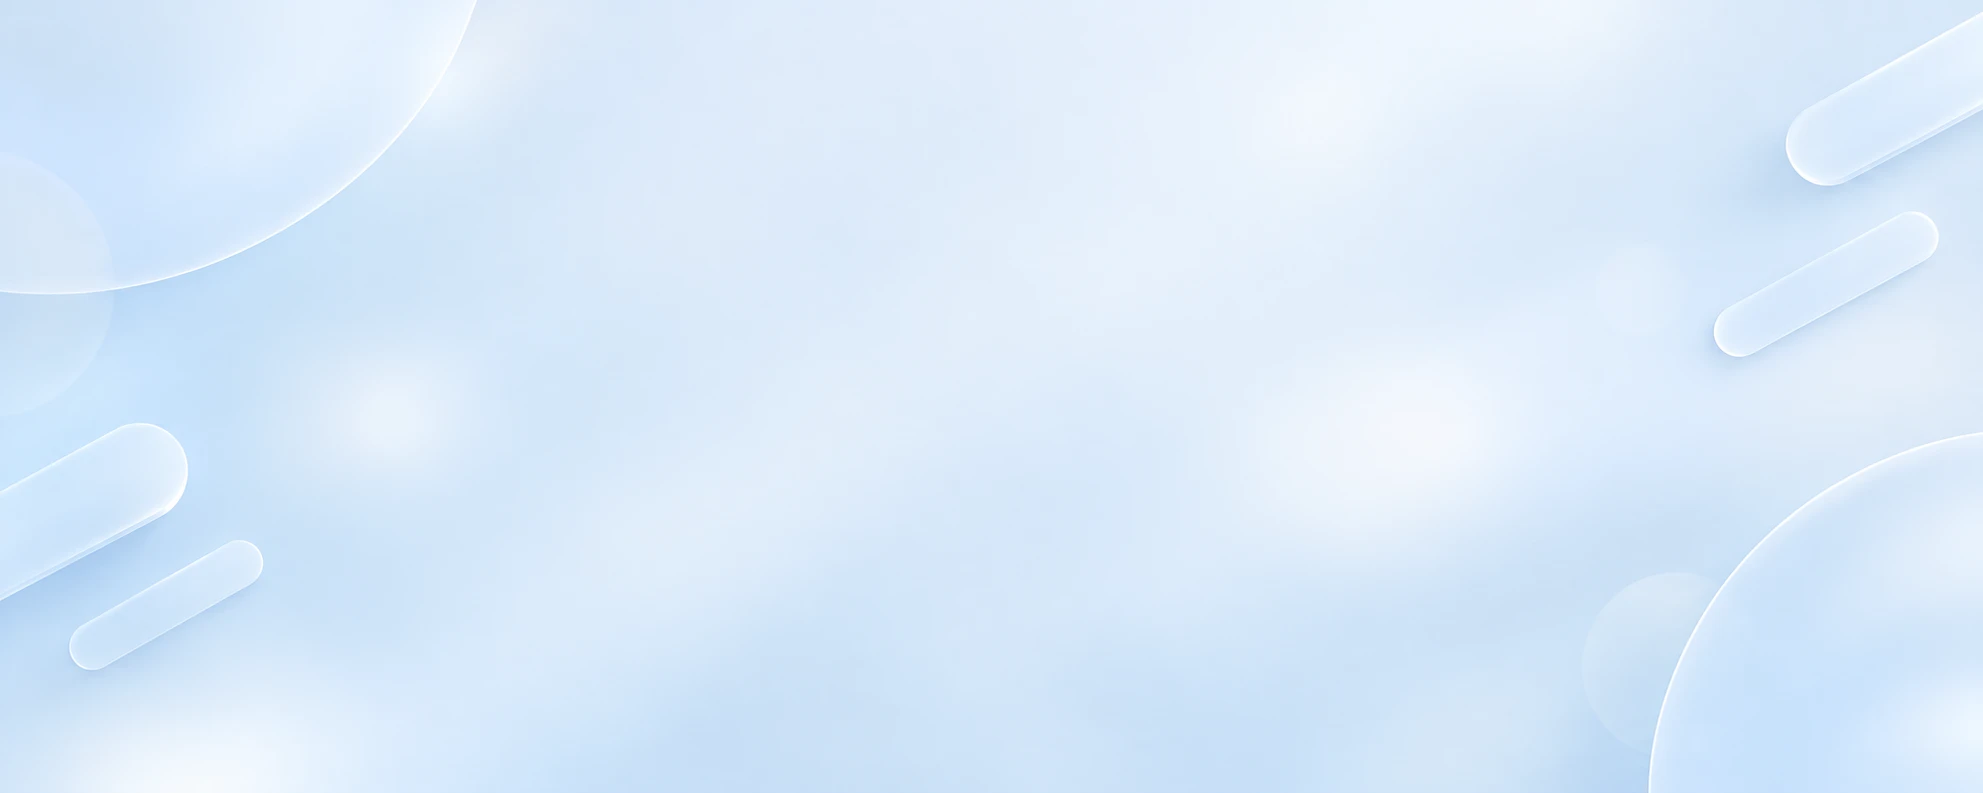
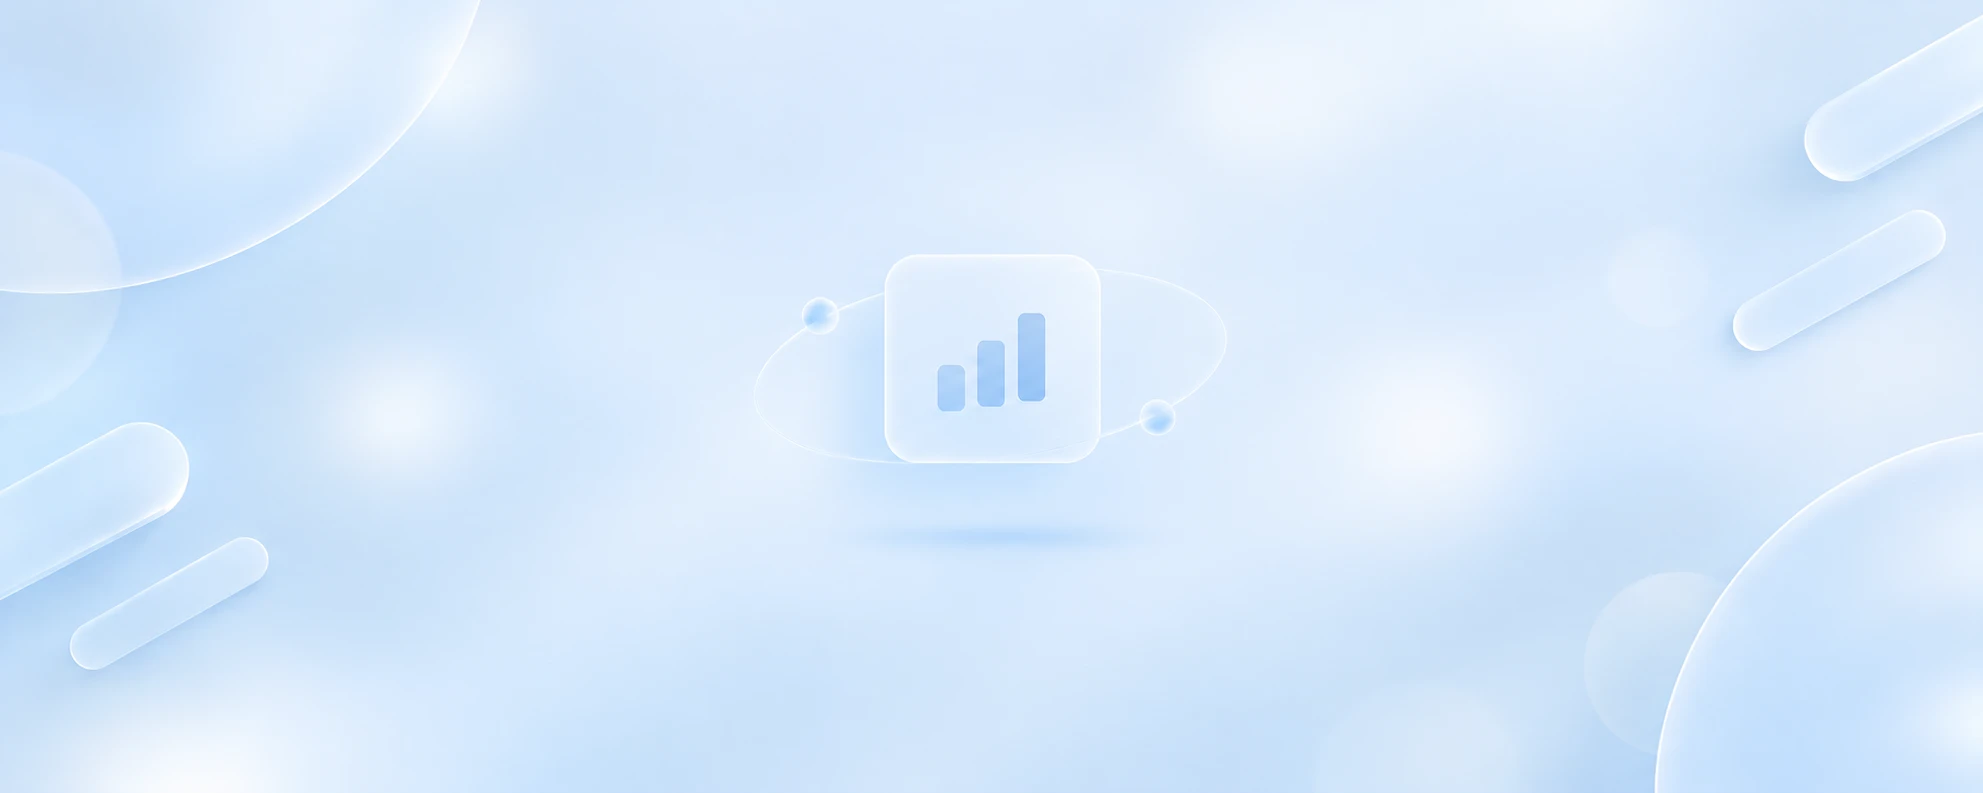
design: nuevo fondo de ingreso con ícono central; tarjeta a la derecha en pantallas anchas

diff --git a/src/app/login/page.tsx b/src/app/login/page.tsx
@@ -60,7 +60,7 @@ export default function LoginPage() {
   }
 
   return (
-    <div className="min-h-screen flex items-center justify-center relative overflow-hidden px-4 py-10">
+    <div className="min-h-screen flex items-center justify-center xl:justify-end xl:pr-[5vw] relative overflow-hidden px-4 py-10">
       {/* Imagen de fondo del ingreso */}
       <div aria-hidden="true" className="login-bg absolute inset-0 pointer-events-none" />
 
